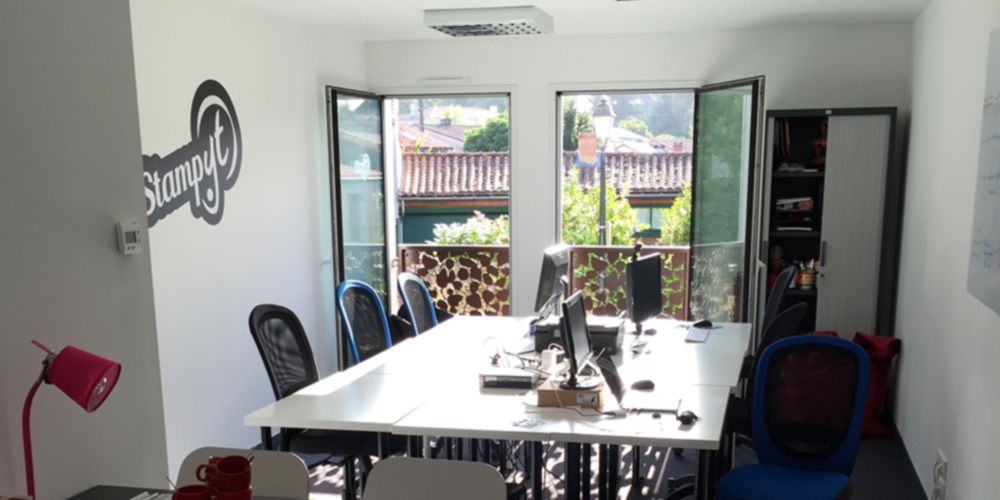
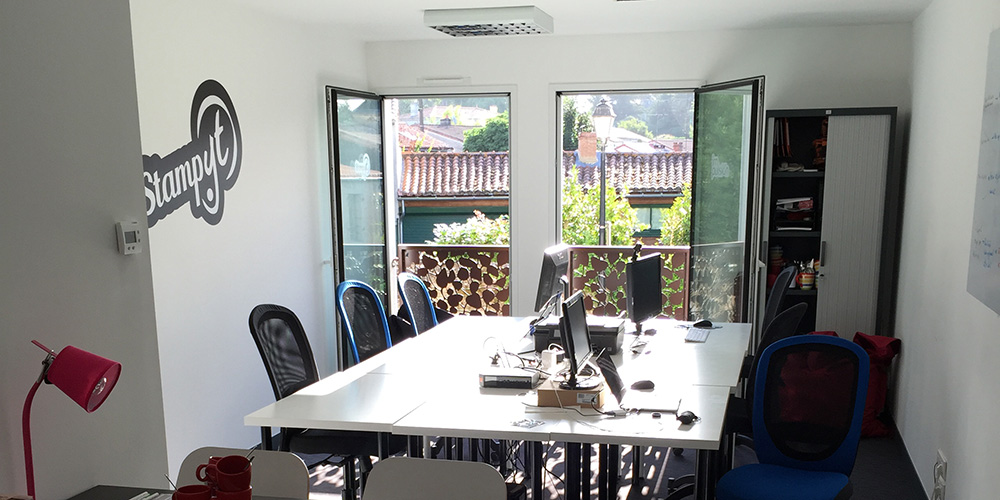
Modification de l'image de fond.

diff --git a/index.html b/index.html
@@ -5,7 +5,7 @@
 		<meta name="twitter:site" content="@duallip">
 		<meta name="twitter:title" content="Duallip">
 		<meta name="twitter:description" content="Ajoutez des éléments interactif à vos photos">
-		<meta name="twitter:image" content="https://duallip.github.io//images/photo.png">
+		<meta name="twitter:image" content="https://duallip.github.io//images/photo.jpg">
 		<meta name="twitter:player" content="https://duallip.github.io//index.html">
 		<meta name="twitter:player:width" content="1000">
 		<meta name="twitter:player:height" content="500">

diff --git a/style.css b/style.css
@@ -14,7 +14,7 @@ body, html{
 	margin: auto;
 	width: 1000px;
 	height: 500px;
-	background-image: url('images/photo.png');
+	background-image: url('images/photo.jpg');
 	overflow: hidden;
 }
 
